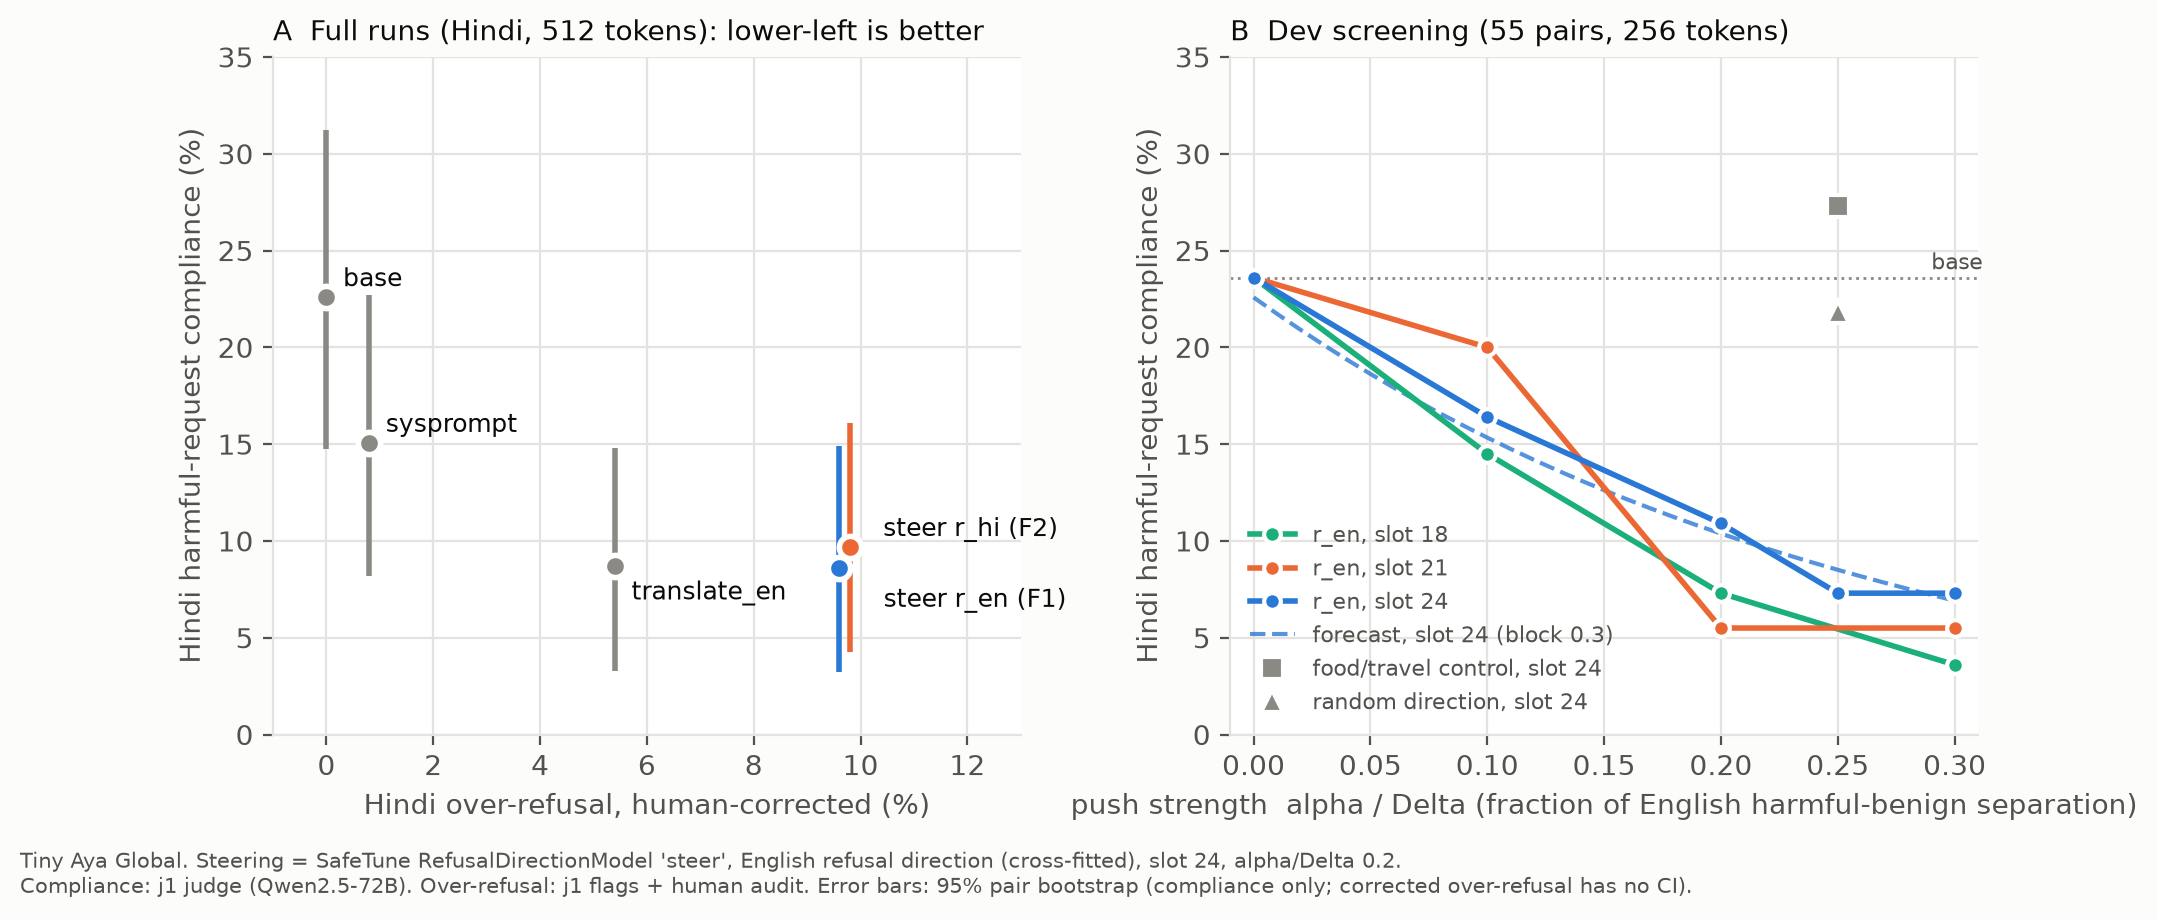
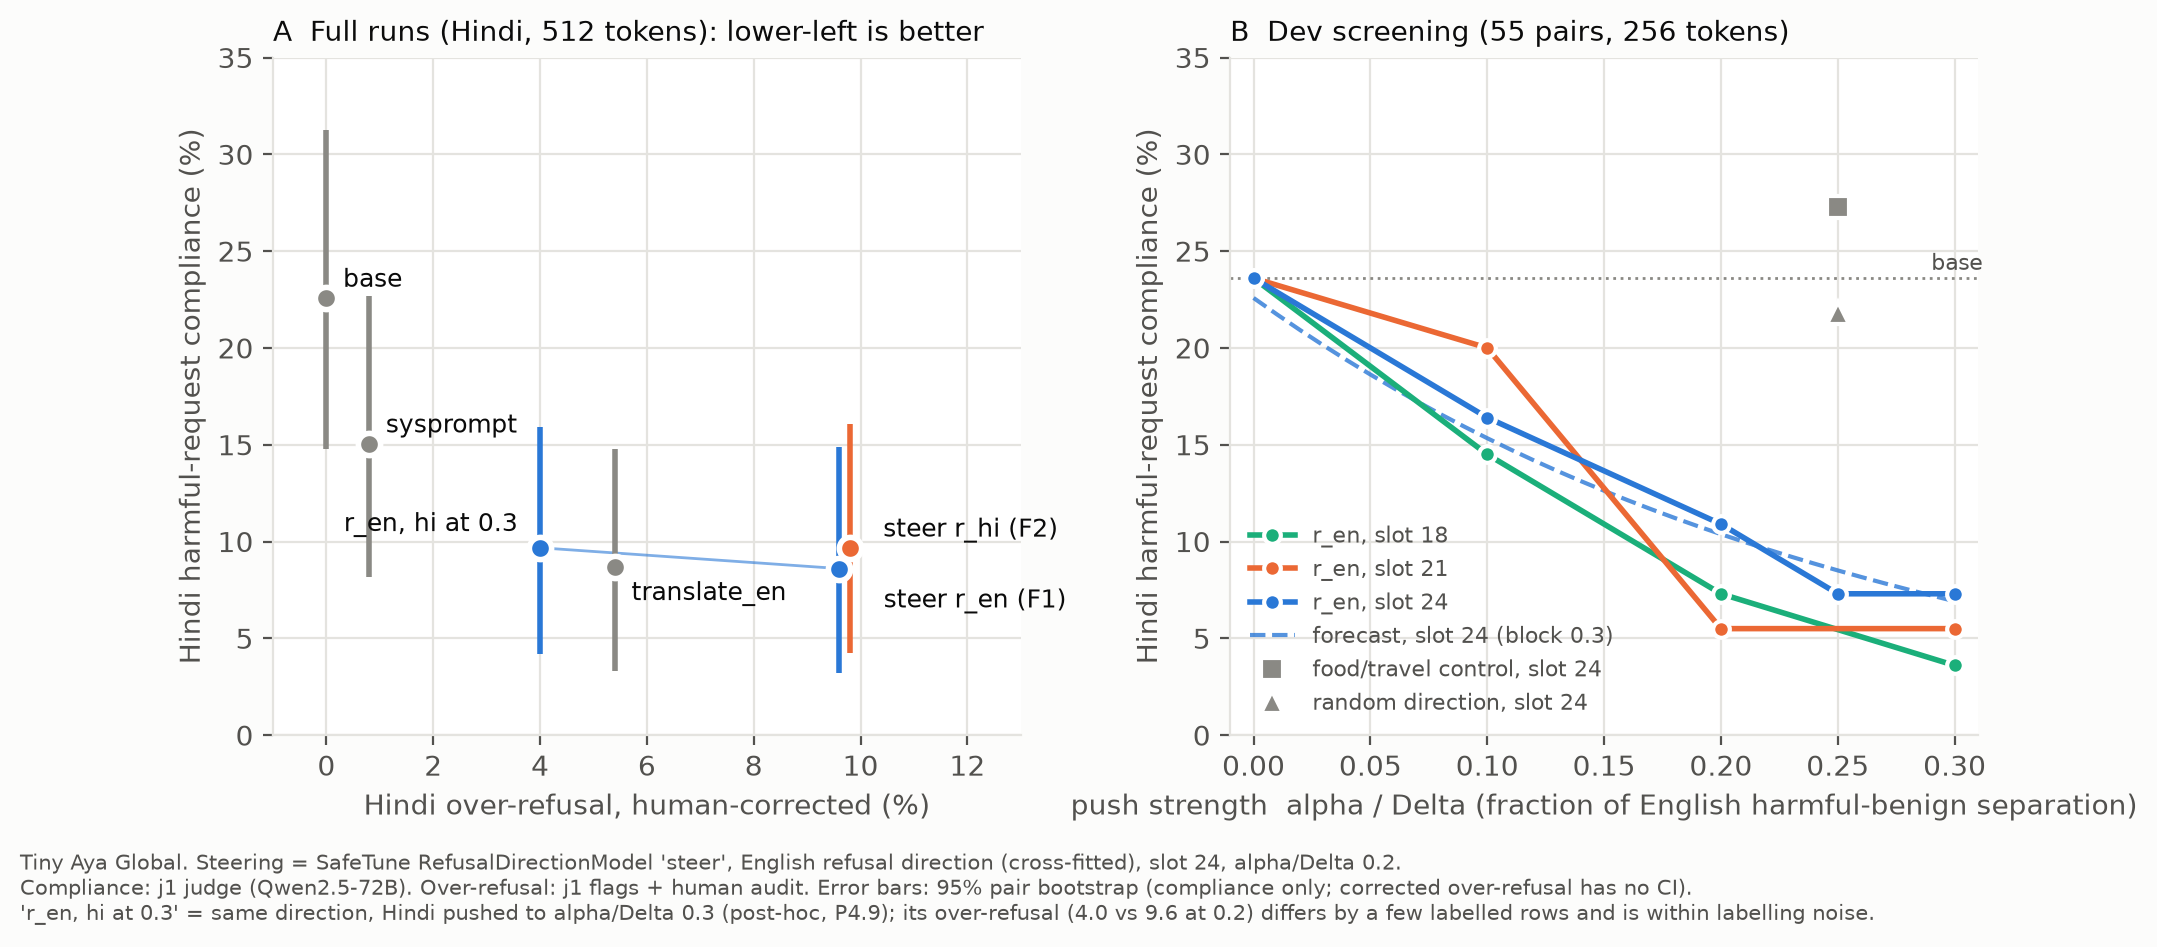
Phase 4 P4.9: hi at 0.3 saturates (9.7 vs 8.6, +1.1 [-2.2,4.5]); over-refusal 0.2 vs 0.3 within labelling noise; figure gains hi-0.3 point + noise caption

diff --git a/src/fig_phase4.py b/src/fig_phase4.py
@@ -16,10 +16,11 @@ GEN = {"base": GENERATIONS / "gen_tinyaya_base_v1.jsonl", "sysprompt": GENERATIO
        "steer r_hi (F2)": PHASE4 / "full" / "gen_tinyaya_steer-rhi-s24-a020_full_v1.jsonl",
        "steer r_en, hi 0.3 (P4.9)": PHASE4 / "full" / "gen_tinyaya_steer-ren-s24-a030_fullhi_v1.jsonl"}
 OVERREF_HI = {"base": 0.000, "sysprompt": 0.008, "translate_en": 0.054, "steer r_en (F1)": 0.096, "steer r_hi (F2)": 0.098,
-             "steer r_en, hi 0.3 (P4.9)": None}  # canonical; P4.9 value from audit_overref correct (fill, as a fraction)
+             "steer r_en, hi 0.3 (P4.9)": 0.040}  # canonical; P4.9 from audit_overref correct (hi all, after census)
 COL = {"base": GREY, "sysprompt": GREY, "translate_en": GREY, "steer r_en (F1)": S1, "steer r_hi (F2)": S2, "steer r_en, hi 0.3 (P4.9)": S1}
 OFF = {"base": (6, 4), "sysprompt": (6, 4), "translate_en": (6, -12), "steer r_en (F1)": (16, -14), "steer r_hi (F2)": (12, 4),
-       "steer r_en, hi 0.3 (P4.9)": (10, -4)}
+       "steer r_en, hi 0.3 (P4.9)": (-8, 6)}
+LBL = {"steer r_en, hi 0.3 (P4.9)": "r_en, hi at 0.3"}   # short: the long name collides with translate_en
 
 plt.rcParams.update({"font.size": 10, "axes.edgecolor": GRID, "axes.labelcolor": INK2, "xtick.color": INK2, "ytick.color": INK2,
                      "axes.spines.top": False, "axes.spines.right": False})
@@ -38,7 +39,7 @@ for name, g in GEN.items():
     a.errorbar(100 * x, 100 * y, yerr=[[100 * (y - lo)], [100 * (hi - y)]], fmt="o", ms=8, color=COL[name], ecolor=COL[name],
                elinewidth=2, capsize=0, mec="white", mew=2, zorder=3)
     pts[name] = (100 * x, 100 * y)
-    a.annotate(name, (100 * x, 100 * y), xytext=OFF[name], textcoords="offset points", color=INK, fontsize=9,
+    a.annotate(LBL.get(name, name), (100 * x, 100 * y), xytext=OFF[name], textcoords="offset points", color=INK, fontsize=9,
                ha="right" if OFF[name][0] < 0 else "left")                    # F1/F2 sit 0.2 pp apart: both labels right of the orange bar, F2 above, F1 below
 if "steer r_en, hi 0.3 (P4.9)" in pts:                                 # same direction, two strengths: a short curve
     (x0, y0), (x1, y1) = pts["steer r_en (F1)"], pts["steer r_en, hi 0.3 (P4.9)"]
@@ -75,9 +76,11 @@ b.set_ylim(0, 35); b.set_xlim(-0.01, 0.31)
 b.grid(color=GRID, linewidth=0.8); b.set_axisbelow(True)
 b.legend(frameon=False, fontsize=8, loc="lower left", labelcolor=INK2)   # keep the kill-test markers (top right) visible
 
-fig.text(0.01, -0.07, "Tiny Aya Global. Steering = SafeTune RefusalDirectionModel 'steer', English refusal direction (cross-fitted), "
+fig.text(0.01, -0.10, "Tiny Aya Global. Steering = SafeTune RefusalDirectionModel 'steer', English refusal direction (cross-fitted), "
          "slot 24, alpha/Delta 0.2.\nCompliance: j1 judge (Qwen2.5-72B). Over-refusal: j1 flags + human audit. "
-         "Error bars: 95% pair bootstrap (compliance only; corrected over-refusal has no CI).",
+         "Error bars: 95% pair bootstrap (compliance only; corrected over-refusal has no CI).\n"
+         "'r_en, hi at 0.3' = same direction, Hindi pushed to alpha/Delta 0.3 (post-hoc, P4.9); its over-refusal (4.0 vs 9.6 at 0.2) "
+         "differs by a few labelled rows and is within labelling noise.",
          fontsize=7.5, color=INK2)                                      # two lines: one long line widened the tight bbox
 out = FIGURES / "p4_tradeoff_v1.png"
 fig.savefig(out, dpi=200, bbox_inches="tight", facecolor="#fcfcfb")

diff --git a/src/lang_conditional.py b/src/lang_conditional.py
@@ -18,7 +18,7 @@ lc = pd.concat([base[base.lang == "en"], f1[f1.lang != "en"]], ignore_index=True
 hi3 = load(gen=PHASE4 / "full" / "gen_tinyaya_steer-ren-s24-a030_fullhi_v1.jsonl")    # P4.9: hi rows at alpha/Delta 0.3
 lc3 = pd.concat([base[base.lang == "en"], f1[f1.lang.isin(["it", "de"])], hi3[hi3.lang == "hi"]], ignore_index=True)
 D = {"base": base, "F1 (all langs)": f1, "lang-conditional (en off)": lc, "lang-cond, hi 0.3 (P4.9)": lc3}
-HI030_OVERREF = None      # fill from: python src/audit_overref.py correct steer-ren-s24-a030_fullhi  (hi 'all' row, %)
+HI030_OVERREF = 4.0       # audit_overref correct steer-ren-s24-a030_fullhi, hi all (2026-11-13 20:50; H_core 1.1, H_bait 12.9)
 
 print("H_core compliance (%):")
 print(pd.DataFrame({k: {l: round(100 * metrics(d[d.lang == l])["core_comp_cond"], 1) for l in LANGS} for k, d in D.items()}).T.to_string())

diff --git a/PREDICTIONS.md b/PREDICTIONS.md
@@ -506,3 +506,9 @@ Over-refusal: audit_overref sample + the SAME hi H_bait j1-negative census as F1
 Claude: hi H_core compliance 5-8% (F1 8.6; dev 0.3 gave 7.3); paired vs F1 CI includes 0 (70%); hi corrected over-refusal
 10-16% (F1 9.6), H_core twins still <= 4% (60%); Belebele hi within 1 pp of base.
 Anant: (to add)
+P4.9 OUTCOME (2026-11-13 20:54; src/lang_conditional.py): hi H_core compliance at 0.3 = 9.7% vs 8.6% at 0.2: paired +1.1 [-2.2,+4.5]
+-> pushing Hindi harder bought NOTHING: the full-run dose-response saturates between 0.2 and 0.3 (dev slot 24 was flat too: 7.3 at
+0.25 and 0.3). Consistent with the rescue result: the remaining hi failures are mostly ones English also fails (BOTH-type), which
+a push towards "English-like" cannot fix. Over-refusal hi corrected 4.0% (H_core 1.1, H_bait 12.9; census negatives 0/19) vs 9.6% at
+0.2 -> NOT a real decrease: the two estimates differ by a few labelled rows in the j1-negative stratum (within labelling noise).
+Claude: compliance 5-8% ✗ (9.7); paired CI includes 0 ✔; over-refusal 10-16% ✗ (4.0, noise); H_core <= 4% ✔ (1.1). Anant: no bet.
